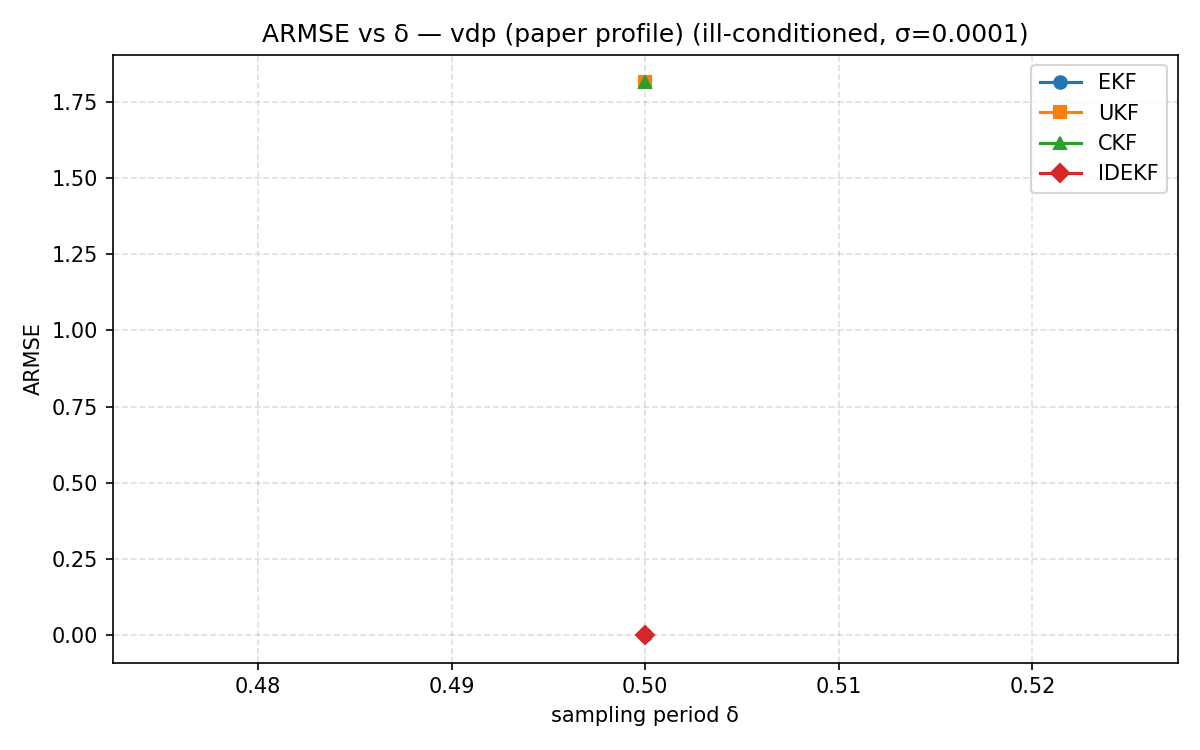
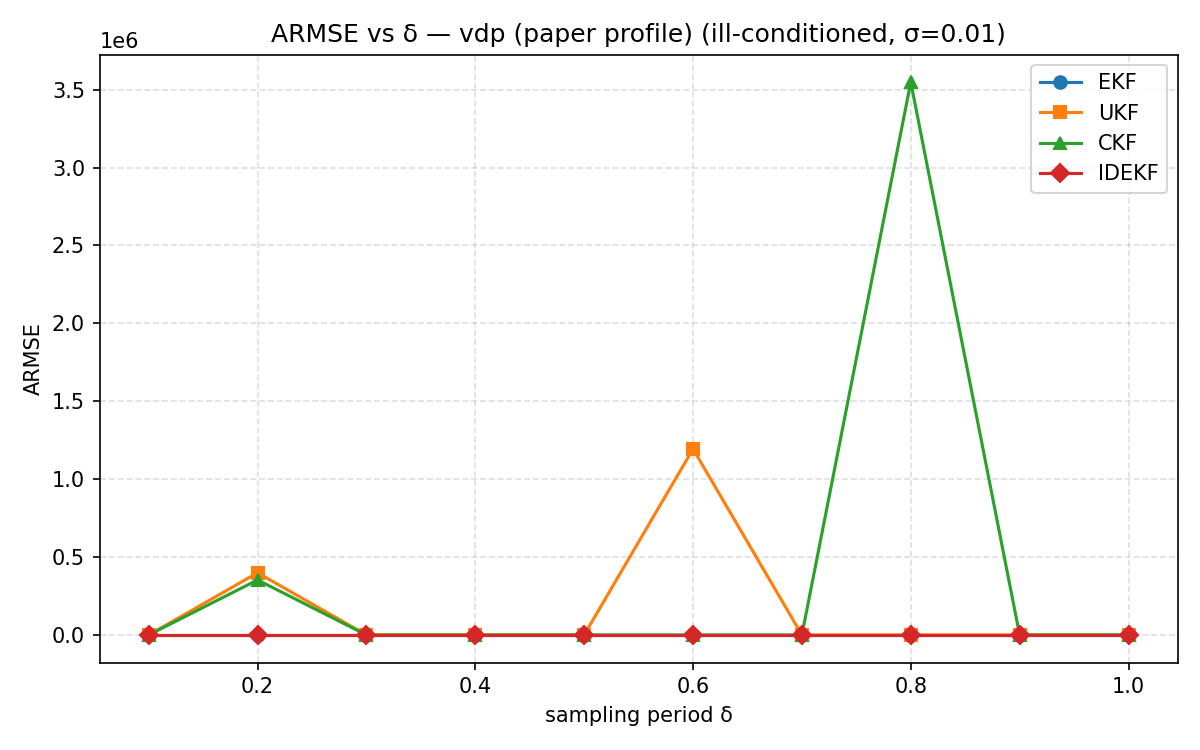
changes

diff --git a/run_armse_ill.py b/run_armse_ill.py
@@ -262,14 +262,14 @@ def export_armse_summary(results: Dict[float, Dict[str, float]], outdir: str, ca
 if __name__ == "__main__":
     parser = argparse.ArgumentParser()
     parser.add_argument("--case", choices=["dahlquist", "vdp"], default="vdp")
-    parser.add_argument("--runs", type=int, default=10)
+    parser.add_argument("--runs", type=int, default=1)
     parser.add_argument("--seed", type=int, default=1)
     parser.add_argument("--outdir", type=str, default="results")
     # Example grids
     slow = [0.1, 0.2, 0.3, 0.4, 0.5, 0.6, 0.7, 0.8, 0.9, 1.0]
     parser.add_argument("--deltas", type=float, nargs="*", default=slow)
     parser.add_argument("--profile", choices=["paper", "harsh"], default="paper")
-    sigma = 1e-2
+    sigma = 1e-4
     parser.add_argument("--sigma", type=float, default=sigma,
                         help="If set (>0) and case=vdp, use ill-conditioned 2x output: [[1,1],[1,1+sigma]] with R=diag(sigma^2).")
     args = parser.parse_args()
